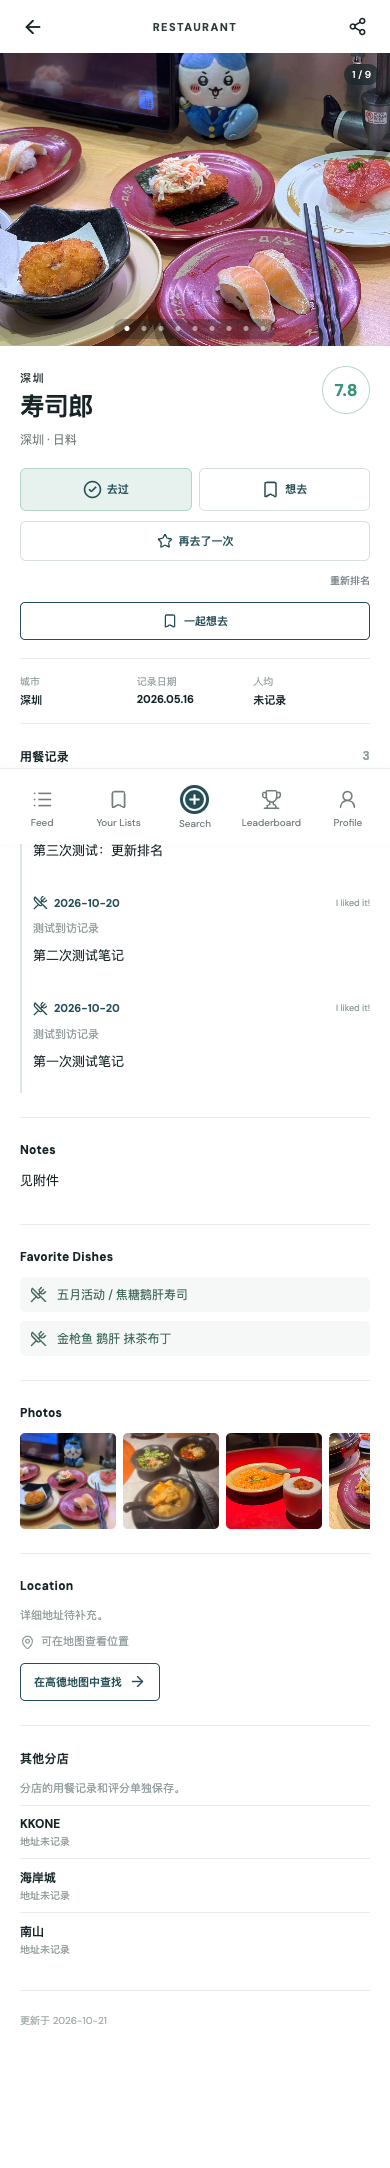
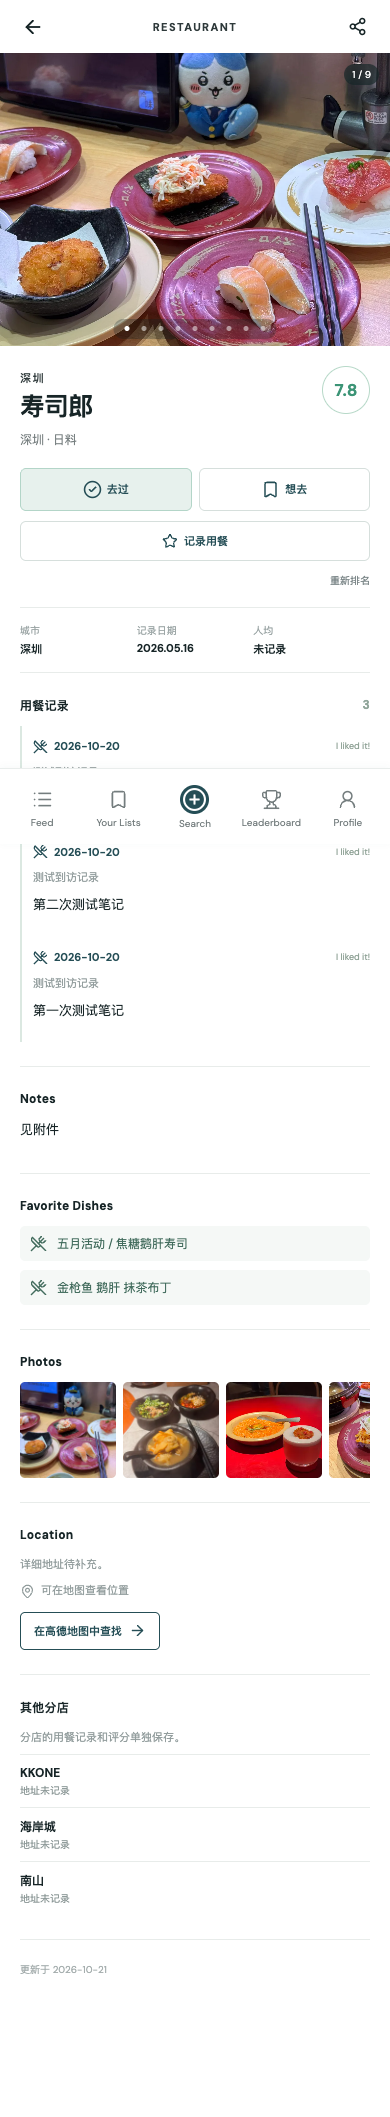
fix: preserve added places and defer unranked scores

diff --git a/src/App.tsx b/src/App.tsx
@@ -209,7 +209,7 @@ function App() {
       {page === 'rank' && <RankPage ranked={food.ranked} totalBeen={statusCount.been} onOpen={r => navTo('detail', r.id)} onExplore={() => navTo('lists')} onCompare={() => { const first = food.ranked[0]; if (first) openRating(first.restaurant, 'rerank'); }} onUndo={food.undoComparison} hasComparisons={food.comparisonHistory.length > 0} />}
       {page === 'profile' && <ProfilePage name={editingName?profileName:displayName} editing={editingName} onEdit={setEditingName} onName={setProfileName} onSave={() => { const value = profileName.trim() || 'WXY'; setProfileName(value); localStorage.setItem('beli-study-profile-name', value); if (sharing.space) void sharing.updateName(value).catch(() => setToast('名字尚未同步，请重试')); setEditingName(false); }} counts={statusCount} rated={food.ranked.length} onTab={tab => { setListTab(tab); navTo('lists'); }} onRank={() => navTo('rank')} onReset={() => { if (window.confirm('清除本机保存的去过/想去、评分和比较记录？')) food.reset(); }} />}
       {page === 'profile' && <SharingPanel catalog={catalog} sharing={sharing} name={displayName} onOpen={r => navTo('detail', r.id)} />}
-      {page === 'detail' && detail && <DetailPage food={food} sharing={sharing} onToast={setToast} r={detail} status={food.getStatus(detail.id)} score={food.getScore(detail.id)} onBack={() => { if (window.history.length > 1) window.history.back(); else navTo('lists'); }} onStatus={status => { ensurePlace(detail); food.setStatus(detail.id, status); }} onEnsure={() => ensurePlace(detail)} onRate={() => openRating(detail)} onRerank={() => openRating(detail, 'rerank')} onShare={share} />}
+      {page === 'detail' && detail && <DetailPage food={food} sharing={sharing} r={detail} status={food.getStatus(detail.id)} score={food.getScore(detail.id)} onBack={() => { if (window.history.length > 1) window.history.back(); else navTo('lists'); }} onStatus={status => { ensurePlace(detail); food.setStatus(detail.id, status); }} onRate={() => openRating(detail)} onRerank={() => openRating(detail, 'rerank')} onShare={share} />}
     </main>
     <BottomNav page={page} />
     {filterOpen && <div className="modal-backdrop" onClick={() => setFilterOpen(false)}><div className="filter-sheet" role="dialog" aria-modal="true" aria-label="筛选餐厅" onClick={e => e.stopPropagation()}><div className="sheet-handle" /><button className="sheet-close" onClick={() => setFilterOpen(false)} aria-label="关闭"><X size={21} /></button><h2>筛选餐厅</h2><div className="filter-section"><h3>Selected list</h3><div className="selection-grid"><button className={listTab === 'been' ? 'chosen' : ''} onClick={() => setListTab('been')}><CheckCircle2 size={20} /><strong>Been</strong><small>{statusCount.been} 家</small></button><button className={listTab === 'want' ? 'chosen' : ''} onClick={() => setListTab('want')}><Bookmark size={20} /><strong>Want to Try</strong><small>{statusCount.want} 家</small></button><button className={listTab === 'recs' ? 'chosen' : ''} onClick={() => setListTab('recs')}><Heart size={20} /><strong>Recs</strong><small>为你推荐</small></button><button className={listTab === 'guides' ? 'chosen' : ''} onClick={() => setListTab('guides')}><Star size={20} /><strong>Guides</strong><small>城市指南</small></button></div></div><div className="filter-section"><h3>Sort by</h3><div className="choice-row">{([['recent', '最近'], ['score', '我的评分'], ['name', '名称']] as const).map(([value, label]) => <button key={value} className={sortMode === value ? 'selected' : ''} onClick={() => setSortMode(value)}>{label}</button>)}</div></div><div className="filter-section"><h3>搜索</h3><input className="sheet-search" type="search" value={listQuery} onChange={e => setListQuery(e.target.value)} placeholder="店名、菜系、菜品" /></div><div className="filter-section"><h3>City</h3><select value={city} onChange={e => setCity(e.target.value)}><option value="all">全部地区</option>{regions.map(r => <option key={r.slug} value={r.slug}>{r.name} · {r.count + r.wait}</option>)}</select></div><div className="filter-section"><h3>Cuisine</h3><select value={cuisine} onChange={e => setCuisine(e.target.value)}><option value="all">全部菜系</option>{cuisines.map(c => <option key={c} value={c}>{c}</option>)}</select></div><div className="filter-section"><h3>Price · 人均</h3><div className="choice-row">{([null, 80, 150, 300] as const).map(value => <button key={value ?? 'all'} className={priceCap === value ? 'selected' : ''} onClick={() => setPriceCap(value)}>{value ? `≤ ¥${value}` : '不限'}</button>)}</div><p className="subtle">仅显示已填写人均价格的餐厅。</p></div><label className="check-row"><input type="checkbox" checked={photoOnly} onChange={e => setPhotoOnly(e.target.checked)} />只看有实拍的餐厅</label><div className="sheet-actions"><button onClick={() => { setCity('all'); setCuisine('all'); setPriceCap(null); setPhotoOnly(false); setSortMode('recent'); setListQuery(''); }}>Clear all</button><button className="primary" onClick={() => setFilterOpen(false)}>查看 {sortedFiltered.length} 家</button></div></div></div>}
@@ -251,7 +251,8 @@ function FeedPage({ catalog, sharing, food, getStatus, onOpen, onSearch, onList,
 function SearchPage({ catalog, onAddPlace, query, onQuery, onOpen, getStatus, getScore, onRate }: { catalog: Restaurant[]; onAddPlace: (place: PlaceRecord) => void; query: string; onQuery: (q: string) => void; onOpen: (r: Restaurant) => void; getStatus: (id: string) => FoodStatus; getScore: (id: string) => number | null; onRate: (r: Restaurant) => void }) {
   const [searchCity, setSearchCity] = useState('all');
   const matches = useMemo(() => catalog.filter(r => (searchCity === 'all' || r.regionSlug === searchCity) && (!query.trim() || `${r.searchText} ${r.reviewText.toLocaleLowerCase()}`.includes(query.trim().toLocaleLowerCase()))).sort((a, b) => (a.closed === b.closed ? 0 : a.closed ? 1 : -1) || a.displayName.localeCompare(b.displayName, 'zh-CN')), [catalog, query, searchCity]);
-  const addPlace = <AddPlace query={query} searchCity={searchCity} catalog={catalog} onAdd={onAddPlace} />;
+  const visibleIds = useMemo(() => new Set(matches.map(r => r.id)), [matches]);
+  const addPlace = <AddPlace query={query} searchCity={searchCity} catalog={catalog} visibleIds={visibleIds} onAdd={onAddPlace} onOpen={onOpen} />;
   return <><TopBar title={<span className="eyebrow">SEARCH</span>} /><div className="search-page-head"><h1>Find Dining.</h1><p>寻找下一顿喜欢的味道。</p></div><label className="search-field"><Search size={20} /><input autoFocus type="search" placeholder="店名、菜系、菜品、地区" value={query} onChange={e => onQuery(e.target.value)} />{query && <button onClick={() => onQuery('')} aria-label="清除搜索"><X size={16} /></button>}</label><div className="city-scroll"><button className={searchCity === 'all' ? 'active' : ''} onClick={() => setSearchCity('all')}>全部</button>{regions.map(r => <button className={searchCity === r.slug ? 'active' : ''} key={r.slug} onClick={() => setSearchCity(r.slug)}>{r.name}</button>)}</div><div className="search-results-title"><strong>{matches.length} 家餐厅</strong></div>{matches.length ? <div className="restaurant-list">{matches.map(r => <article key={r.id} className="restaurant-row search-row"><button className="row-main" onClick={() => onOpen(r)}><span className="row-text"><strong>{r.displayName}</strong><InfoLine r={r} /><span className="row-tags"><span>{getStatus(r.id) === 'been' ? '去过' : getStatus(r.id) === 'want' ? '想去' : '未记录'}</span>{r.closed && <span>已停业</span>}</span></span>{getScore(r.id) !== null ? <b className="score-badge">{getScore(r.id)!.toFixed(1)}</b> : <ChevronRight size={18} />}</button><div className="row-actions"><span>{formattedVisitDate(r) || "日期未记录"}</span><button onClick={() => onRate(r)}>打分 <ArrowRight size={15} /></button></div></article>)}</div> : <div className="empty-state"><Search size={28} /><h3>没有找到匹配餐厅</h3><p>{query.trim() ? '可以在下方搜索并添加这家店。' : '试试其他店名或菜系。'}</p></div>}{addPlace}</>;
 }
 
@@ -263,9 +264,9 @@ function ProfilePage({ name, editing, onEdit, onName, onSave, counts, rated, onT
   return <><TopBar left={<button className="icon-button" onClick={() => navTo('feed')} aria-label="返回"><ArrowLeft size={20} /></button>} title={<span className="eyebrow">PROFILE</span>} right={<button className="icon-button" onClick={onReset} aria-label="清除本机记录"><Menu size={20} /></button>} /><div className="profile-main"><div className="profile-avatar" aria-label={`${name.charAt(0).toUpperCase()}，蓝底头像`}>{name.charAt(0).toUpperCase()}</div>{editing ? <div className="edit-name"><input value={name} onChange={e => onName(e.target.value)} maxLength={28} aria-label="档案名称" /><button onClick={onSave}>保存</button></div> : <button className="profile-name" onClick={() => onEdit(true)}>{name} <ChevronRight size={16} /></button>}<p>@{name.toLowerCase()}</p><div className="profile-pill">Your dining journal</div><div className="profile-metrics"><div><strong>{counts.been}</strong><span>Been</span></div><div><strong>{counts.want}</strong><span>Want to Try</span></div><div><strong>{rated}</strong><span>Ranked</span></div></div></div><div className="profile-links"><button onClick={() => onTab('been')}><CheckCircle2 size={21} /><strong>Been</strong><span>{counts.been}</span><ChevronRight size={18} /></button><button onClick={() => onTab('want')}><Bookmark size={21} /><strong>Want to Try</strong><span>{counts.want}</span><ChevronRight size={18} /></button><button onClick={() => onTab('recs')}><Heart size={21} /><strong>为你推荐</strong><ChevronRight size={18} /></button><button onClick={onRank}><Trophy size={21} /><strong>个人榜单</strong><span>{rated}</span><ChevronRight size={18} /></button></div></>;
 }
 
-function DetailPage({ r, status, score, onBack, onStatus, onEnsure, onRate, onRerank, onShare, food, sharing, onToast }: { r: Restaurant; status: FoodStatus; score: number | null; onBack: () => void; onStatus: (status: FoodStatus) => void; onEnsure: () => void; onRate: () => void; onRerank: () => void; onShare: () => void; food: FoodStateController; sharing: SharingController; onToast: (message: string) => void }) {
+function DetailPage({ r, status, score, onBack, onStatus, onRate, onRerank, onShare, food, sharing }: { r: Restaurant; status: FoodStatus; score: number | null; onBack: () => void; onStatus: (status: FoodStatus) => void; onRate: () => void; onRerank: () => void; onShare: () => void; food: FoodStateController; sharing: SharingController }) {
   const [photoIndex, setPhotoIndex] = useState<number | null>(null);
-  return <><TopBar left={<button className="icon-button" onClick={onBack} aria-label="返回"><ArrowLeft size={22} /></button>} title={<span className="eyebrow">RESTAURANT</span>} right={<button className="icon-button" onClick={onShare} aria-label="分享"><Share2 size={19} /></button>} />{r.images.length > 0 ? <PhotoCarousel className="detail-carousel" images={r.images} label={r.displayName} onOpen={setPhotoIndex} /> : <div className="detail-hero">{img(r)}</div>}<div className="detail-content"><div className="detail-title-row"><div><span className="eyebrow">{regionName(r.regionSlug)}</span><h1>{r.displayName}</h1><InfoLine r={r} /></div>{score !== null && <b className="detail-score">{score.toFixed(1)}</b>}</div>{r.closed && <div className="closed-note">这家餐厅已停业，仍可查看你的用餐记录。</div>}<div className="detail-actions" role="group" aria-label="餐厅状态"><button className={status === 'been' ? 'active' : ''} aria-pressed={status === 'been'} onClick={() => onStatus('been')}><CheckCircle2 size={19} /> 去过</button><button className={status === 'want' ? 'active' : ''} aria-pressed={status === 'want'} onClick={() => onStatus('want')}><Bookmark size={19} /> 想去</button></div>{status === 'been' && score === null && <button className="rank-prompt" onClick={onRerank}><Trophy size={16} /><span>还没排名<small>和其他去过的餐厅比一比</small></span><ChevronRight size={16} /></button>}<button className="record-visit" onClick={onRate}><Star size={16} /> {status === 'been' ? '再去了一次' : '记录用餐'}</button>{score !== null && <button className="text-button rerank-button" onClick={onRerank}>重新排名</button>}{sharing.space && <button className={`sharing-outline shared-want-button ${sharing.wants.some(w => w.restaurant_id === r.id) ? 'saved' : ''}`} onClick={() => { onEnsure(); void sharing.toggleWant(r.id).catch(() => onToast('操作未完成，请重试')); }}><Bookmark size={16}/>{sharing.wants.some(w => w.restaurant_id === r.id) ? '已加入一起想去' : '一起想去'}</button>}<div className="detail-facts"><div><span>城市</span><strong>{r.actualCity || regionName(r.regionSlug)}</strong></div><div><span>记录日期</span><strong>{formattedVisitDate(r) || '未记录'}</strong></div><div><span>人均</span><strong>{r.avgPrice ? `¥${Math.round(r.avgPrice)}` : '未记录'}</strong></div></div><VisitTimeline ownerId={sharing.userId!} loadPhoto={sharing.loadPhoto} visits={food.snapshot.visits[r.id] || []} name={r.displayName}/>{r.reviewText && <section className="detail-section"><h2>Notes</h2><p>{r.reviewText}</p></section>}{r.dishes.length > 0 && <section className="detail-section"><h2>Favorite Dishes</h2><div className="dish-list">{r.dishes.map((d, i) => <div key={`${d.name}-${i}`}><UtensilsCrossed size={17} /><span>{d.name}{d.review ? <small>{d.review}</small> : null}</span></div>)}</div></section>}{r.images.length > 1 && <section className="detail-section"><h2>Photos</h2><div className="detail-gallery">{r.images.map((image, i) => <button key={image.src} onClick={() => setPhotoIndex(i)}><img src={imageUrl(image.thumb)} alt={`${r.displayName} 实拍 ${i + 1}`} loading="lazy" /></button>)}</div></section>}<section className="detail-section"><h2>Location</h2>{r.address ? <p>{r.address}</p> : <p className="subtle">详细地址待补充。</p>}{r.mapPoint ? <p className="subtle"><MapPin size={15} /> 可在地图查看位置</p> : <p className="subtle"><MapPin size={15} /> 位置待补充，可以使用店名搜索导航。</p>}<a className="external-map" href={r.navigationUrl} target="_blank" rel="noopener noreferrer">在{r.navigationProvider}中查找 <ArrowRight size={17} /></a></section>{r.branches.length > 0 && <section className="detail-section"><h2>其他分店</h2><p className="subtle">分店的用餐记录和评分单独保存。</p>{r.branches.map(b => <div className="branch-row" key={b.id}><strong>{b.name}</strong><small>{b.address || '地址未记录'}</small></div>)}</section>}<p className="detail-credit">更新于 {r.contentUpdatedAt}</p></div>{photoIndex !== null && <PhotoViewer images={r.images} label={r.displayName} initialIndex={photoIndex} onClose={() => setPhotoIndex(null)} />}</>;
+  return <><TopBar left={<button className="icon-button" onClick={onBack} aria-label="返回"><ArrowLeft size={22} /></button>} title={<span className="eyebrow">RESTAURANT</span>} right={<button className="icon-button" onClick={onShare} aria-label="分享"><Share2 size={19} /></button>} />{r.images.length > 0 ? <PhotoCarousel className="detail-carousel" images={r.images} label={r.displayName} onOpen={setPhotoIndex} /> : <div className="detail-hero">{img(r)}</div>}<div className="detail-content"><div className="detail-title-row"><div><span className="eyebrow">{regionName(r.regionSlug)}</span><h1>{r.displayName}</h1><InfoLine r={r} /></div>{score !== null && <b className="detail-score">{score.toFixed(1)}</b>}</div>{r.closed && <div className="closed-note">这家餐厅已停业，仍可查看你的用餐记录。</div>}<div className="detail-actions" role="group" aria-label="餐厅状态"><button className={status === 'been' ? 'active' : ''} aria-pressed={status === 'been'} onClick={() => onStatus('been')}><CheckCircle2 size={19} /> 去过</button><button className={status === 'want' ? 'active' : ''} aria-pressed={status === 'want'} onClick={() => onStatus('want')}><Bookmark size={19} /> 想去</button></div>{status === 'been' && score === null && <button className="rank-prompt" onClick={onRerank}><Trophy size={16} /><span>还没排名<small>和其他去过的餐厅比一比</small></span><ChevronRight size={16} /></button>}<button className="record-visit" onClick={onRate}><Star size={16} /> 记录用餐</button>{score !== null && <button className="text-button rerank-button" onClick={onRerank}>重新排名</button>}<div className="detail-facts"><div><span>城市</span><strong>{r.actualCity || regionName(r.regionSlug)}</strong></div><div><span>记录日期</span><strong>{formattedVisitDate(r) || '未记录'}</strong></div><div><span>人均</span><strong>{r.avgPrice ? `¥${Math.round(r.avgPrice)}` : '未记录'}</strong></div></div><VisitTimeline ownerId={sharing.userId!} loadPhoto={sharing.loadPhoto} visits={food.snapshot.visits[r.id] || []} name={r.displayName}/>{r.reviewText && <section className="detail-section"><h2>Notes</h2><p>{r.reviewText}</p></section>}{r.dishes.length > 0 && <section className="detail-section"><h2>Favorite Dishes</h2><div className="dish-list">{r.dishes.map((d, i) => <div key={`${d.name}-${i}`}><UtensilsCrossed size={17} /><span>{d.name}{d.review ? <small>{d.review}</small> : null}</span></div>)}</div></section>}{r.images.length > 1 && <section className="detail-section"><h2>Photos</h2><div className="detail-gallery">{r.images.map((image, i) => <button key={image.src} onClick={() => setPhotoIndex(i)}><img src={imageUrl(image.thumb)} alt={`${r.displayName} 实拍 ${i + 1}`} loading="lazy" /></button>)}</div></section>}<section className="detail-section"><h2>Location</h2>{r.address ? <p>{r.address}</p> : <p className="subtle">详细地址待补充。</p>}{r.mapPoint ? <p className="subtle"><MapPin size={15} /> 可在地图查看位置</p> : <p className="subtle"><MapPin size={15} /> 位置待补充，可以使用店名搜索导航。</p>}<a className="external-map" href={r.navigationUrl} target="_blank" rel="noopener noreferrer">在{r.navigationProvider}中查找 <ArrowRight size={17} /></a></section>{r.branches.length > 0 && <section className="detail-section"><h2>其他分店</h2><p className="subtle">分店的用餐记录和评分单独保存。</p>{r.branches.map(b => <div className="branch-row" key={b.id}><strong>{b.name}</strong><small>{b.address || '地址未记录'}</small></div>)}</section>}<p className="detail-credit">更新于 {r.contentUpdatedAt}</p></div>{photoIndex !== null && <PhotoViewer images={r.images} label={r.displayName} initialIndex={photoIndex} onClose={() => setPhotoIndex(null)} />}</>;
 }
 
 export default App;

diff --git a/src/components/RankingFlow.tsx b/src/components/RankingFlow.tsx
@@ -30,7 +30,12 @@ export function RankingFlow({ restaurant, food, onClose, mode = 'visit' }: { res
     return () => { alive = false; urls.forEach(URL.revokeObjectURL); };
   }, [log.photoIds]);
   const finish = (position: number) => { food.completeRanking(restaurant.id, { ...log, tags: log.tags.map(s => s.trim()).filter(Boolean), dishes: log.dishes.map(s => s.trim()).filter(Boolean) }, position, mode === 'visit'); setStep('result'); };
-  const beginCompare = () => { setHistory([]); setBounds({ low: 0, high: peers.length }); if (peers.length) setStep('compare'); else finish(0); };
+  const beginCompare = () => {
+    setHistory([]);
+    if (peers.length) { setBounds({ low: 0, high: peers.length }); setStep('compare'); return; }
+    if (mode === 'visit') { food.saveVisit(restaurant.id, log); setSavedOnly(true); setStep('result'); return; }
+    finish(0);
+  };
   const choose = (preferNew: boolean) => {
     const next = preferNew ? { low: bounds.low, high: middle } : { low: middle + 1, high: bounds.high };
     setHistory(old => [...old, bounds]); setBounds(next);
@@ -40,8 +45,8 @@ export function RankingFlow({ restaurant, food, onClose, mode = 'visit' }: { res
     <header className="ranking-flow-head"><button className="icon-button" onClick={() => step === 'metadata' ? setStep('sentiment') : onClose()} aria-label="返回"><ArrowLeft size={20} /></button><div><strong>{restaurant.brand}</strong><small>{restaurant.cuisineTags.slice(0, 2).join(' · ') || restaurant.actualCity}</small></div><button className="icon-button" onClick={onClose} aria-label="关闭排名"><X size={20} /></button></header>
     <div className="ranking-category">Add to my list of <select aria-label="排名分类" value={log.category} onChange={e => setLog({ ...log, category: e.target.value })}><option>Restaurants</option></select></div>
     <section className="sentiment-panel"><h2>How was it?</h2><div className="sentiment-options">{(['liked', 'fine', 'disliked'] as Sentiment[]).map(value => { const Icon = value === 'liked' ? Smile : value === 'fine' ? Meh : Frown; return <button key={value} className={`sentiment-${value} ${step !== 'sentiment' && log.sentiment === value ? 'chosen' : ''}`} onClick={() => { setLog({ ...log, sentiment: value }); setStep('metadata'); }}><span>{step !== 'sentiment' && log.sentiment === value ? <Check size={23} /> : <Icon size={23} />}</span><small>{sentimentLabel[value]}</small></button>; })}</div></section>
-    {step === 'metadata' && <div className="ranking-metadata"><h2>记录这次用餐 <small>全部选填</small></h2><label>Notes<textarea placeholder="想记住什么？" value={log.notes} onChange={e => setLog({ ...log, notes: e.target.value })} /></label><label>Labels<input placeholder="用逗号分隔，例如：约会、聚餐" value={log.tags.join('，')} onChange={e => setLog({ ...log, tags: e.target.value.split(/[,，]/) })} /></label><label>Favorite dishes<input placeholder="用逗号分隔菜品" value={log.dishes.join('，')} onChange={e => setLog({ ...log, dishes: e.target.value.split(/[,，]/) })} /></label><label>分店<input placeholder="这次去了哪家分店？" value={log.branch || ''} onChange={e => setLog({ ...log, branch: e.target.value })} /></label><label>Visit date<input aria-label="到访日期" type="date" value={log.visitedAt} onChange={e => setLog({ ...log, visitedAt: e.target.value })} /></label><label className="photo-upload"><ImagePlus size={19} />{uploading ? '正在保存照片…' : `添加照片 · ${log.photoIds.length}/12`}<input aria-label="添加用餐照片" type="file" accept="image/*" multiple disabled={uploading} onChange={async e => { const files = Array.from(e.target.files || []).slice(0, 12 - log.photoIds.length); setUploading(true); setError(''); try { const ids = await Promise.all(files.map(savePhoto)); setLog(old => ({ ...old, photoIds: [...old.photoIds, ...ids] })); } catch (err) { setError(err instanceof Error ? err.message : '保存失败'); } finally { setUploading(false); } }} /></label>{photoUrls.length > 0 && <div className="logging-photos">{photoUrls.map((url, index) => <div key={url}><img src={url} alt={`新增用餐照片 ${index + 1}`} /><button onClick={() => setLog({ ...log, photoIds: log.photoIds.filter((_, i) => i !== index) })} aria-label={`移除照片 ${index + 1}`}><X size={12} /></button></div>)}</div>}{error && <p className="form-error">{error}</p>}<button className="primary full" disabled={uploading} onClick={beginCompare}>{food.getScore(restaurant.id) === null ? '下一步，开始排名' : '下一步，更新排名'} <ChevronRight size={16} /></button>{mode === 'visit' && <button className="save-visit-only" disabled={uploading} onClick={() => { food.saveVisit(restaurant.id, log); setSavedOnly(true); setStep('result'); }}>仅保存这次用餐，保留现有排名</button>}</div>}
+    {step === 'metadata' && <div className="ranking-metadata"><h2>记录这次用餐 <small>全部选填</small></h2><label>Notes<textarea placeholder="想记住什么？" value={log.notes} onChange={e => setLog({ ...log, notes: e.target.value })} /></label><label>Labels<input placeholder="用逗号分隔，例如：约会、聚餐" value={log.tags.join('，')} onChange={e => setLog({ ...log, tags: e.target.value.split(/[,，]/) })} /></label><label>Favorite dishes<input placeholder="用逗号分隔菜品" value={log.dishes.join('，')} onChange={e => setLog({ ...log, dishes: e.target.value.split(/[,，]/) })} /></label><label>分店<input placeholder="这次去了哪家分店？" value={log.branch || ''} onChange={e => setLog({ ...log, branch: e.target.value })} /></label><label>Visit date<input aria-label="到访日期" type="date" value={log.visitedAt} onChange={e => setLog({ ...log, visitedAt: e.target.value })} /></label><label className="photo-upload"><ImagePlus size={19} />{uploading ? '正在保存照片…' : `添加照片 · ${log.photoIds.length}/12`}<input aria-label="添加用餐照片" type="file" accept="image/*" multiple disabled={uploading} onChange={async e => { const files = Array.from(e.target.files || []).slice(0, 12 - log.photoIds.length); setUploading(true); setError(''); try { const ids = await Promise.all(files.map(savePhoto)); setLog(old => ({ ...old, photoIds: [...old.photoIds, ...ids] })); } catch (err) { setError(err instanceof Error ? err.message : '保存失败'); } finally { setUploading(false); } }} /></label>{photoUrls.length > 0 && <div className="logging-photos">{photoUrls.map((url, index) => <div key={url}><img src={url} alt={`新增用餐照片 ${index + 1}`} /><button onClick={() => setLog({ ...log, photoIds: log.photoIds.filter((_, i) => i !== index) })} aria-label={`移除照片 ${index + 1}`}><X size={12} /></button></div>)}</div>}{error && <p className="form-error">{error}</p>}<p className="ranking-score-note">分数由两两比较生成，不在这里手动填写。暂无可比较的餐厅时，会先保存用餐记录并显示为待排名。</p><button className="primary full" disabled={uploading} onClick={beginCompare}>{mode === 'visit' && peers.length === 0 ? '保存用餐，稍后排名' : food.getScore(restaurant.id) === null ? '下一步，开始排名' : '下一步，更新排名'} <ChevronRight size={16} /></button>{mode === 'visit' && peers.length > 0 && <button className="save-visit-only" disabled={uploading} onClick={() => { food.saveVisit(restaurant.id, log); setSavedOnly(true); setStep('result'); }}>仅保存这次用餐，保留现有排名</button>}</div>}
     {step === 'compare' && opponent && <div className="ranking-comparison"><h2>Which do you prefer?</h2><p>和你同样感受的餐厅比较</p><div className="ranking-pair" onTouchStart={e => { touch.current = e.touches[0].clientX; }} onTouchEnd={e => { if (touch.current === null) return; const delta = e.changedTouches[0].clientX - touch.current; if (Math.abs(delta) > 70) choose(delta < 0); touch.current = null; }}><button onClick={() => choose(true)}><strong>{restaurant.brand}</strong><small>{restaurant.actualCity}</small></button><span>OR</span><button onClick={() => choose(false)}><strong>{opponent.brand}</strong><small>{opponent.actualCity}</small></button></div><div className="comparison-tools"><button disabled={!history.length} onClick={() => { setBounds(history.at(-1)!); setHistory(history.slice(0, -1)); }}>Undo</button><button onClick={onClose}>Skip for now</button></div><p className="subtle">太难比较时可暂时退出；本次草稿不会更改排名。</p></div>}
-    {step === 'result' && <div className="ranking-result"><span className="result-check"><Check size={30} /></span><h2>{savedOnly ? '用餐记录已保存' : 'Added to Been'}</h2><p>{restaurant.brand}</p><strong>{food.getScore(restaurant.id)?.toFixed(1) ?? '—'}</strong>{food.getScore(restaurant.id) !== null && <p>你的第 {food.ranked.findIndex(row => row.restaurant.id === restaurant.id) + 1} 名</p>}<button className="primary full" onClick={onClose}>Done</button><button className="text-button" onClick={() => { food.undoComparison(); onClose(); }}>撤销本次排名</button></div>}
+    {step === 'result' && <div className="ranking-result"><span className="result-check"><Check size={30} /></span><h2>{savedOnly ? '用餐记录已保存' : 'Added to Been'}</h2><p>{restaurant.brand}</p><strong>{food.getScore(restaurant.id)?.toFixed(1) ?? '—'}</strong>{savedOnly && food.getScore(restaurant.id) === null && <p>目前没有可比较的餐厅，这条记录暂不生成分数。之后可从详情页加入个人榜单。</p>}{savedOnly && food.getScore(restaurant.id) !== null && <p>本次记录已保存，现有排名保持不变。</p>}{food.getScore(restaurant.id) !== null && <p>你的第 {food.ranked.findIndex(row => row.restaurant.id === restaurant.id) + 1} 名</p>}<button className="primary full" onClick={onClose}>Done</button>{!savedOnly && <button className="text-button" onClick={() => { food.undoComparison(); onClose(); }}>撤销本次排名</button>}</div>}
   </dialog>;
 }

diff --git a/src/components/SharingPanel.tsx b/src/components/SharingPanel.tsx
@@ -1,5 +1,5 @@
 import { useEffect, useState } from 'react';
-import { Bookmark, CheckCircle2, Copy, LockKeyhole, Users, ChevronRight } from 'lucide-react';
+import { CheckCircle2, Copy, LockKeyhole, Users } from 'lucide-react';
 import type { Restaurant } from '../data/restaurants';
 import { normalizeSnapshot, rankedFromSnapshot, statusFromSnapshot } from '../state/useFoodState';
 import { VisitTimeline } from './VisitTimeline';
@@ -15,6 +15,5 @@ export function SharingPanel({ catalog, sharing, name, onOpen }: { catalog: Rest
   if(!sharing.space)return <section className="sharing-panel"><div className="sharing-title"><Users size={20}/><h2>建立二人空间</h2></div><label>你的名字<input value={memberName} onChange={e=>setMemberName(e.target.value)} maxLength={40}/></label><button className="primary full" disabled={busy||!memberName.trim()} onClick={()=>void run(()=>sharing.create(memberName),'空间已创建')}>创建空间</button><div className="sharing-divider">或使用邀请加入</div><input aria-label="邀请码" value={token||sharing.invite} onChange={e=>setToken(e.target.value)} placeholder="粘贴邀请码"/><button className="sharing-outline full" disabled={busy||!(token||sharing.invite).trim()||!memberName.trim()} onClick={()=>void run(()=>sharing.join(token||sharing.invite,memberName),'已加入空间')}>加入空间</button><p className="subtle">加入时会建立你的独立记录，不会复制对方的去过和评分。</p>{error&&<p className="form-error">{error}</p>}{sharing.error&&<p className="form-error">{sharing.error}</p>}<button className="text-button" onClick={()=>void sharing.signOut()}>退出登录</button></section>;
   const own=sharing.members.find(m=>m.user_id===sharing.userId);const partner=sharing.members.find(m=>m.user_id!==sharing.userId);const raw=sharing.states.find(row=>row.user_id===partner?.user_id)?.payload;const partnerState=raw?normalizeSnapshot(raw,new Set(catalog.map(r=>r.id))):null;const partnerRank=partnerState?rankedFromSnapshot(partnerState,catalog):[];
   const rows=partnerState?(partnerTab==='rank'?partnerRank.map(r=>r.restaurant):catalog.filter(r=>statusFromSnapshot(partnerState,r)===partnerTab)):[];
-  const common=catalog.filter(r=>sharing.wants.some(w=>w.restaurant_id===r.id));
-  return <section className="sharing-panel"><div className="sharing-title"><Users size={20}/><h2>Our dining space</h2><span className={sharing.error?'sync-error':''}>{sharing.status||'已连接'}</span></div><div className="space-members">{[own,partner].map((member,i)=><div key={member?.user_id||'waiting'}><span style={{background:member?.avatar_color||'#edf1ee',color:member?'white':'#8b9993'}}>{member?.avatar_letter||'+'}</span><strong>{member?.display_name||(i?'等待加入':'我')}</strong></div>)}</div>{sharing.space.owner_id===sharing.userId&&!partner&&<button className="sharing-outline full" disabled={busy} onClick={()=>void run(()=>sharing.inviteLink(),'邀请链接已复制；仅发送给你的共享对象')}><Copy size={15}/>复制邀请链接</button>}{message&&<p className="sharing-message">{message}</p>}{(error||sharing.error)&&<div className="form-error">{error||sharing.error}<button onClick={()=>void run(()=>sharing.reloadCloud(),'已载入云端记录')}>载入云端记录</button><button onClick={sharing.retry}>重试同步</button></div>}<h3><Bookmark size={16}/> 一起想去 <span>{common.length}</span></h3>{common.length?<div className="shared-rows">{common.map(r=><button key={r.id} onClick={()=>onOpen(r)}><strong>{r.displayName}</strong><ChevronRight size={15}/></button>)}</div>:<p className="subtle">在餐厅详情中点“一起想去”，就能共同维护这份清单。</p>}{partner&&<><h3><CheckCircle2 size={16}/> {partner.display_name} 的记录</h3><div className="choice-row">{(['been','want','rank'] as const).map(tab=><button className={partnerTab===tab?'selected':''} key={tab} onClick={()=>setPartnerTab(tab)}>{tab==='been'?'Been':tab==='want'?'Want to Try':'Ranked'}</button>)}</div>{rows.length?<div className="shared-rows">{rows.map((r,i)=><div key={r.id}><button onClick={()=>onOpen(r)}><strong>{partnerTab==='rank'?`${i+1}. `:''}{r.displayName}</strong><span>{partnerRank.find(item=>item.restaurant.id===r.id)?.score.toFixed(1)||''}</span></button>{partnerState?.logs[r.id]?.notes&&<p>{partnerState.logs[r.id].notes}</p>}{!!partnerState?.visits[r.id]?.length&&<details><summary>查看用餐记录</summary><VisitTimeline ownerId={partner.user_id} loadPhoto={sharing.loadPhoto} visits={partnerState.visits[r.id]} name={r.displayName}/></details>}</div>)}</div>:<p className="subtle">还没有记录。</p>}</>}{sharing.hasLocalBackup&&<button className="text-button" onClick={sharing.downloadLocalBackup}>下载接入云端前的本机记录备份</button>}<details className="account-password"><summary>修改密码</summary><input type="password" minLength={12} autoComplete="new-password" value={newPassword} onChange={e=>setNewPassword(e.target.value)} placeholder="至少 12 位新密码" aria-label="新密码"/><button className="sharing-outline full" disabled={busy||newPassword.length<12} onClick={()=>void run(()=>sharing.changePassword(newPassword),'密码已更新')}>保存新密码</button></details><div className="sharing-footer"><span><LockKeyhole size={12}/>空间仅成员可见</span><button onClick={()=>void sharing.signOut()}>退出登录</button></div></section>;
+  return <section className="sharing-panel"><div className="sharing-title"><Users size={20}/><h2>Our dining space</h2><span className={sharing.error?'sync-error':''}>{sharing.status||'已连接'}</span></div><div className="space-members">{[own,partner].map((member,i)=><div key={member?.user_id||'waiting'}><span style={{background:member?.avatar_color||'#edf1ee',color:member?'white':'#8b9993'}}>{member?.avatar_letter||'+'}</span><strong>{member?.display_name||(i?'等待加入':'我')}</strong></div>)}</div>{sharing.space.owner_id===sharing.userId&&!partner&&<button className="sharing-outline full" disabled={busy} onClick={()=>void run(()=>sharing.inviteLink(),'邀请链接已复制；仅发送给你的共享对象')}><Copy size={15}/>复制邀请链接</button>}{message&&<p className="sharing-message">{message}</p>}{(error||sharing.error)&&<div className="form-error">{error||sharing.error}<button onClick={()=>void run(()=>sharing.reloadCloud(),'已载入云端记录')}>载入云端记录</button><button onClick={sharing.retry}>重试同步</button></div>}{partner&&<><h3><CheckCircle2 size={16}/> {partner.display_name} 的记录</h3><div className="choice-row">{(['been','want','rank'] as const).map(tab=><button className={partnerTab===tab?'selected':''} key={tab} onClick={()=>setPartnerTab(tab)}>{tab==='been'?'Been':tab==='want'?'Want to Try':'Ranked'}</button>)}</div>{rows.length?<div className="shared-rows">{rows.map((r,i)=><div key={r.id}><button onClick={()=>onOpen(r)}><strong>{partnerTab==='rank'?`${i+1}. `:''}{r.displayName}</strong><span>{partnerRank.find(item=>item.restaurant.id===r.id)?.score.toFixed(1)||''}</span></button>{partnerState?.logs[r.id]?.notes&&<p>{partnerState.logs[r.id].notes}</p>}{!!partnerState?.visits[r.id]?.length&&<details><summary>查看用餐记录</summary><VisitTimeline ownerId={partner.user_id} loadPhoto={sharing.loadPhoto} visits={partnerState.visits[r.id]} name={r.displayName}/></details>}</div>)}</div>:<p className="subtle">还没有记录。</p>}</>}{sharing.hasLocalBackup&&<button className="text-button" onClick={sharing.downloadLocalBackup}>下载接入云端前的本机记录备份</button>}<details className="account-password"><summary>修改密码</summary><input type="password" minLength={12} autoComplete="new-password" value={newPassword} onChange={e=>setNewPassword(e.target.value)} placeholder="至少 12 位新密码" aria-label="新密码"/><button className="sharing-outline full" disabled={busy||newPassword.length<12} onClick={()=>void run(()=>sharing.changePassword(newPassword),'密码已更新')}>保存新密码</button></details><div className="sharing-footer"><span><LockKeyhole size={12}/>空间仅成员可见</span><button onClick={()=>void sharing.signOut()}>退出登录</button></div></section>;
 }

diff --git a/src/components/AddPlace.tsx b/src/components/AddPlace.tsx
@@ -1,5 +1,5 @@
 import { useEffect, useMemo, useRef, useState } from 'react';
-import { CirclePlus } from 'lucide-react';
+import { ChevronRight, CirclePlus } from 'lucide-react';
 import { isOverseasRegion, regionCountry, regionName, type PlaceRecord, type Restaurant } from '../data/restaurants';
 import { amapConfigured, searchPlaces } from '../lib/amap';
 import { searchOsmPlaces } from '../lib/osm';
@@ -8,14 +8,15 @@ type Provider = 'amap' | 'osm';
 const providerLabel: Record<Provider, string> = { amap: '高德', osm: 'OpenStreetMap' };
 
 /** Adds restaurants that are not in the catalogue: AMap for mainland China, OpenStreetMap abroad, or typed in. */
-export function AddPlace({ query, searchCity, catalog, onAdd }: { query: string; searchCity: string; catalog: Restaurant[]; onAdd: (place: PlaceRecord) => void }) {
+export function AddPlace({ query, searchCity, catalog, visibleIds, onAdd, onOpen }: { query: string; searchCity: string; catalog: Restaurant[]; visibleIds: ReadonlySet<string>; onAdd: (place: PlaceRecord) => void; onOpen: (restaurant: Restaurant) => void }) {
   const keyword = query.trim();
   const overseas = isOverseasRegion(searchCity);
   const primary: Provider = overseas || !amapConfigured ? 'osm' : 'amap';
   const alternate: Provider | null = primary === 'amap' ? 'osm' : amapConfigured && searchCity === 'all' ? 'amap' : null;
   const scope = searchCity === 'all' ? '不限地区' : regionName(searchCity);
   const known = useMemo(() => new Map(catalog.map(r => [r.id, r])), [catalog]);
-  const knownNames = useMemo(() => new Set(catalog.map(r => `${normalizeName(r.displayName)}|${normalizeName(r.actualCity)}`)), [catalog]);
+  const knownNames = useMemo(() => new Map(catalog.map(r => [`${normalizeName(r.displayName)}|${normalizeName(r.actualCity)}`, r])), [catalog]);
+  const existingFor = (place: PlaceRecord) => known.get(place.id) || knownNames.get(`${normalizeName(place.name)}|${normalizeName(place.city)}`);
   // OSM ranking bias: the centre of the catalogue's restaurants in the chosen region.
   const near = useMemo(() => {
     const points = catalog.filter(r => r.regionSlug === searchCity && r.mapLng !== null && r.mapLat !== null);
@@ -64,11 +65,14 @@ export function AddPlace({ query, searchCity, catalog, onAdd }: { query: string;
       : state.loading ? <p className="add-place-status">正在搜索{providerLabel[state.provider]} · {scope}…</p>
       : state.error === '再输入一个字开始搜索' ? <p className="add-place-status">{state.error}</p>
       : state.error ? <p className="add-place-status error">{state.error} <button onClick={() => run(state.provider)}>重试</button></p>
-      : !state.results.some(place => !known.has(place.id) && !knownNames.has(`${normalizeName(place.name)}|${normalizeName(place.city)}`)) ? <p className="add-place-status">没有找到新的餐厅；已收录的匹配项显示在上方。</p>
+      : !state.results.some(place => { const existing = existingFor(place); return !existing || !visibleIds.has(existing.id); }) ? <p className="add-place-status">没有找到新的餐厅；已收录的匹配项显示在上方。</p>
       : <>
-        <div className="search-results-title"><strong>{providerLabel[state.provider]} · {state.results.filter(place => !known.has(place.id) && !knownNames.has(`${normalizeName(place.name)}|${normalizeName(place.city)}`)).length} 个结果</strong></div>
-        <div className="restaurant-list">{state.results.filter(place => !known.has(place.id) && !knownNames.has(`${normalizeName(place.name)}|${normalizeName(place.city)}`)).map(place => <article key={place.id} className="restaurant-row place-row"><div className="row-main"><span className="row-text"><strong>{place.name}</strong><span className="info-line">{[place.city.replace(/市$/, ''), place.district, place.type.split(';').at(-1)].filter(Boolean).join(' · ')}</span>{place.address && <small className="place-address">{place.address}</small>}</span></div>
-            <div className="row-actions"><button onClick={() => onAdd(place)}>添加这家 <CirclePlus size={15} /></button></div></article>)}</div>
+        <div className="search-results-title"><strong>{providerLabel[state.provider]} · {state.results.filter(place => { const existing = existingFor(place); return !existing || !visibleIds.has(existing.id); }).length} 个结果</strong></div>
+        <div className="restaurant-list">{state.results.filter(place => { const existing = existingFor(place); return !existing || !visibleIds.has(existing.id); }).map(place => {
+          const existing = existingFor(place);
+          return <article key={place.id} className="restaurant-row place-row"><div className="row-main"><span className="row-text"><strong>{place.name}</strong><span className="info-line">{[place.city.replace(/市$/, ''), place.district, place.type.split(';').at(-1)].filter(Boolean).join(' · ')}</span>{place.address && <small className="place-address">{place.address}</small>}</span></div>
+            <div className="row-actions">{existing ? <button onClick={() => onOpen(existing)}>已加入 · 查看 <ChevronRight size={15} /></button> : <button onClick={() => onAdd(searchCity === 'all' ? place : { ...place, regionSlug: searchCity })}>添加这家 <CirclePlus size={15} /></button>}</div></article>;
+        })}</div>
         {state.provider === 'osm' && <p className="place-credit">数据 © <a href="https://www.openstreetmap.org/copyright" target="_blank" rel="noopener noreferrer">OpenStreetMap 贡献者</a> · 搜索 Photon</p>}
       </>}
     <div className="add-place-links">

diff --git a/src/state/useFoodState.ts b/src/state/useFoodState.ts
@@ -1,5 +1,5 @@
 import { useCallback, useEffect, useMemo, useState } from 'react';
-import { isPlaceId, mergePlaces, type PlaceRecord, type Restaurant } from '../data/restaurants';
+import { isPlaceId, mergePlaces, regions, type PlaceRecord, type Restaurant } from '../data/restaurants';
 
 export type FoodStatus = 'been' | 'want' | 'none';
 export type Sentiment = 'liked' | 'fine' | 'disliked';
@@ -50,7 +50,7 @@ function cleanPlaces(input: unknown): Record<string, PlaceRecord> {
     if (!isPlaceId(id) || !value || typeof value.name !== 'string' || !value.name.trim()) continue;
     const lng = coord(value.lng), lat = coord(value.lat);
     const [source, poiId] = id.split(':') as [PlaceRecord['source'], string];
-    result[id] = { id, source, poiId, name: value.name.slice(0, 120), address: str(value.address, 300), city: str(value.city, 60),
+    result[id] = { id, source, poiId, regionSlug: typeof value.regionSlug === 'string' && regions.some(region => region.slug === value.regionSlug) ? value.regionSlug : undefined, name: value.name.slice(0, 120), address: str(value.address, 300), city: str(value.city, 60),
       district: str(value.district, 60), type: str(value.type, 120), country: str(value.country, 2).toUpperCase() || (source === 'amap' ? 'CN' : ''),
       lng: lat === null ? null : lng, lat: lng === null ? null : lat, addedAt: str(value.addedAt, 40) };
   }

diff --git a/src/data/restaurants.ts b/src/data/restaurants.ts
@@ -172,6 +172,8 @@ export interface PlaceRecord {
   id: string;
   source: PlaceSource;
   poiId: string;
+  /** Search chip that scoped this place, retained when a provider returns a province rather than a city. */
+  regionSlug?: string;
   name: string;
   address: string;
   city: string;
@@ -222,7 +224,8 @@ export const restaurants: Restaurant[] = data.restaurants.map(normalize);
 /** Added places start as no-status for everyone. */
 export function placeToRestaurant(place: PlaceRecord): Restaurant {
   const city = place.city.replace(/市$/, '');
-  const region = regions.find(r => r.slug === regionByCountry[place.country])
+  const region = regions.find(r => r.slug === place.regionSlug)
+    ?? regions.find(r => r.slug === regionByCountry[place.country])
     ?? (city ? regions.find(r => city.startsWith(r.name) || r.name.startsWith(city)) : undefined);
   const kind = place.type.split(';').filter(Boolean).at(-1) || '';
   const address = [place.district, place.address].filter(Boolean).join(' ');

diff --git a/src/styles.css b/src/styles.css
@@ -357,6 +357,7 @@ h1,h2,h3,p { margin-top: 0; }
 .ranking-metadata label { display: block; margin-bottom: 13px; font-size: 11px; font-weight: 700; }
 .ranking-metadata textarea, .ranking-metadata input:not([type=file]) { display: block; width: 100%; min-height: 36px; margin-top: 6px; padding: 8px 9px; border: 1px solid #dfe5e3; border-radius: 5px; background: #fafbfa; color: var(--ink); font-size: 12px; }
 .ranking-metadata textarea { min-height: 72px; resize: vertical; }
+.ranking-score-note { margin: -3px 0 12px; color: #84918d; font-size: 10px; line-height: 1.55; }
 .ranking-metadata .photo-upload { display: flex; align-items: center; gap: 7px; cursor: pointer; color: var(--teal); }
 .photo-upload input { max-width: 150px; font-size: 10px; font-weight: 400; }
 .logging-photos { display: flex; gap: 6px; overflow-x: auto; margin-bottom: 12px; }

diff --git a/docs/RANKING-MODEL.md b/docs/RANKING-MODEL.md
@@ -6,6 +6,6 @@
 
 分数是透明的近似派生：liked 区间 6.7–10，fine 区间 3.4–6.6，disliked 区间 0–3.3。分组有 n 家时，第 i 名（从 0 开始）的分数为 `low + (high-low) × (n-i)/(n+1)`，四舍五入为一位小数。分组扩展时旧分数会相应变化，但相对次序保持。此区间与公式属于本项目实现选择，不是已验证的 Beli 算法。
 
-记录与排名分离：VisitEntry 保存每次真实用餐的日期、分店、菜品、笔记、标签和照片；可以仅保存新到访而不动排名。排名向导完成时才提交名次，取消或跳过不保存草稿。状态和最近 20 次提交快照保存在版本 2 localStorage，可撤销；图片文件独立保存在 IndexedDB。旧原型中用户手动输入的数字只用于迁移到感受和顺序，原型滑杆已移除。
+记录与排名分离：VisitEntry 保存每次真实用餐的日期、分店、菜品、笔记、标签和照片；可以仅保存新到访而不动排名。没有同感受的已排名餐厅可比较时，普通记录流程只保存 VisitEntry，不把该餐厅自动放在榜首，也不生成分数；用户从详情明确加入榜单后，才建立第一个名次。排名向导完成比较时才提交新名次，取消或跳过不保存草稿。状态和最近 20 次提交快照保存在版本 2 localStorage，可撤销；图片文件独立保存在 IndexedDB。旧原型中用户手动输入的数字只用于迁移到感受和顺序，原型滑杆已移除。
 
 初始 WXY 状态可沿用公开数据的 been/want；共享空间第二成员使用 empty baseline，未记录为 none。禁止将 WXY 的历史当作对方到访。

diff --git a/docs/01-APP-INVENTORY.md b/docs/01-APP-INVENTORY.md
@@ -12,7 +12,7 @@
 | M02 | 地图点位 | 选中状态、底部预览、进入详情 | 功能已实现；原始选中截图缺失 |
 | S01 | `#/search` | 输入/清空、地区切换、结果与空态 | 精确新版搜索实屏未获得 |
 | R01 | `#/restaurant/:id` | 图库、状态、用餐记录、菜品、地点、分店 | 详情当前证据不足；不标像素通过 |
-| V01 | 再去了一次 | 三种感受、分店、日期、笔记、菜品、照片 | 2026 Pratt 三种感受；重复到访扩展为实现决策 |
+| V01 | 记录用餐 | 三种感受、分店、日期、笔记、菜品、照片；重复访问作为独立用餐记录 | 2026 Pratt 三种感受；Beli 无手动数字评分 |
 | Q01 | 排名向导 | 比较同感受餐厅，插入有序列表、完成、撤销 | Pratt + Apple 编辑文确认交互概念 |
 | P01 | `#/profile` | WXY / 蓝底 W、计数、清单入口、共享空间 | Apple Profile 层级参考；无虚构社交指标 |
 | A01 | 所有未登录路由 | WXY / LHJ 身份、密码、错误提示、记住会话 | 用户指定的独立登录入口；非官方 Beli 登录屏的像素复刻 |

diff --git a/docs/06-QA-ACCEPTANCE.md b/docs/06-QA-ACCEPTANCE.md
@@ -2,6 +2,8 @@
 
 更新：2026-10-23。已核过数据哈希、类型检查与移动端页面截图。最终测试结果以 `qa/test-report.json` 与运行日志为准。
 
+2026-11-06 更新：深圳地区的外部 POI 加入想去后仍可在该地区检索；旧记录缺少地区归属时会保留“已加入 · 查看”。无可比较餐厅时新增用餐不再自动生成 8.4，而是先保存待排名；明确加入个人榜单后再计算派生分。上述路径由 `npm run test:amap` 与 `npm run test:ui` 的隔离夹具验证，不触碰生产记录。
+
 ## 完成条件
 
 功能需能实际操作、刷新后保留，且不更改上游目录。像素验收另需同一版本、同视口、同状态的原始参考图；宣传手机壳图和历史图不能支持严格像素通过。
